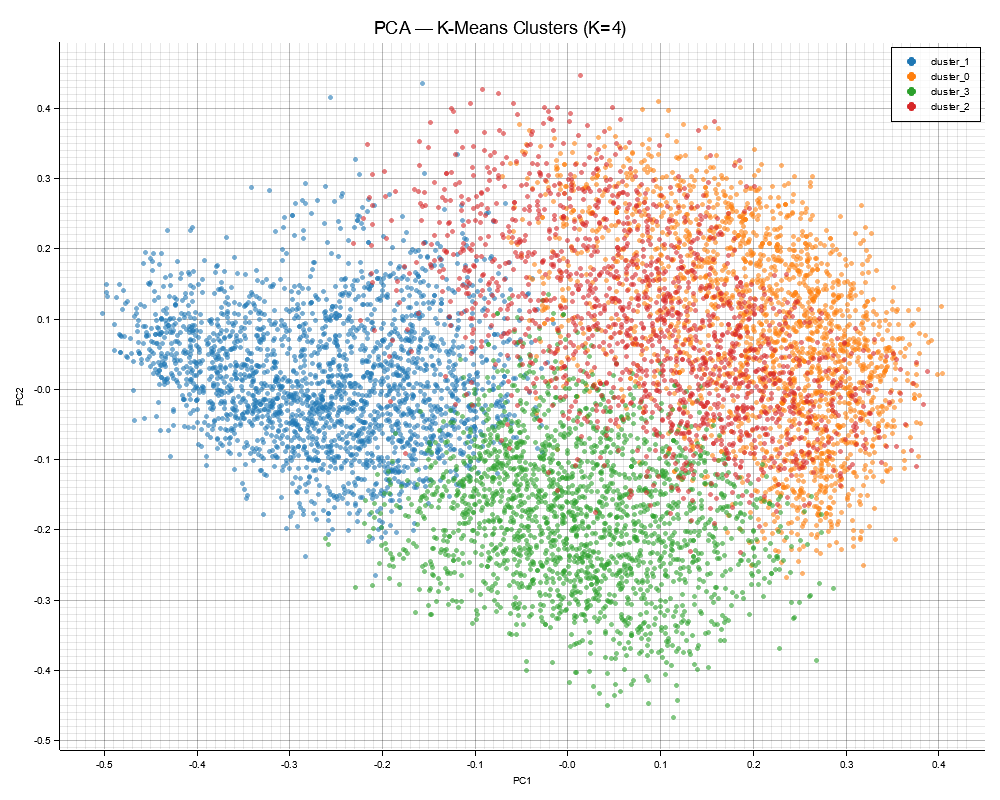
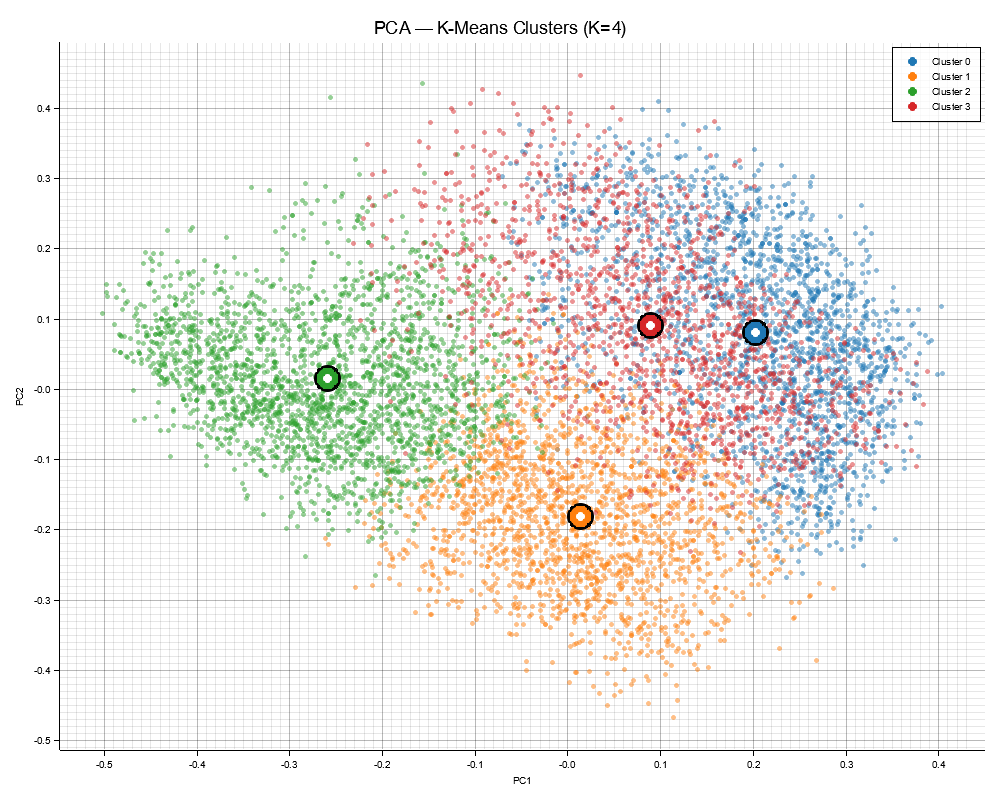
projeto-1: fix seed for reproducibility, add centroid markers
- Fixed RNG seed (42) across K-Means, silhouette, and sampling
- Centroid markers (black circles) on PCA cluster plot
- Regenerated all plots with deterministic K=4 (silhouette=0.0591)
- Updated slide table to match new cluster ordering

diff --git a/projeto-1/output/presentation.html b/projeto-1/output/presentation.html
@@ -230,10 +230,10 @@
   </div>
   <table>
     <tr><th>Cluster</th><th>N</th><th>%</th><th>Descricao</th><th>Top Folders</th><th>Orientacao</th><th>Tam. Med.</th></tr>
-    <tr><td>0</td><td>2125</td><td>26.6</td><td><strong>Arte digital</strong></td><td>wallpapers 35%, ai_images 32%</td><td>43% sq, 46% land</td><td>413 KB</td></tr>
-    <tr><td>1</td><td>2301</td><td>28.8</td><td><strong>Retratos/pessoas</strong></td><td>people 50%, iPhone 33%</td><td>75% portrait</td><td>5.9 MB</td></tr>
-    <tr><td>2</td><td>1602</td><td>20.0</td><td><strong>Screenshots</strong></td><td>iPhone 57%, backup 28%</td><td>55% port, 36% land</td><td>241 KB</td></tr>
-    <tr><td>3</td><td>1972</td><td>24.6</td><td><strong>Cenas/ambientes</strong></td><td>iPhone 81%, people 8%</td><td>70% portrait</td><td>8.5 MB</td></tr>
+    <tr><td>0</td><td>2125</td><td>26.6</td><td><strong>Arte digital</strong></td><td>wallpapers 35%, ai_images 32%</td><td>46% land, 43% sq</td><td>413 KB</td></tr>
+    <tr><td>1</td><td>1972</td><td>24.6</td><td><strong>Cenas/ambientes</strong></td><td>iPhone 81%, people 8%</td><td>70% portrait</td><td>8.5 MB</td></tr>
+    <tr><td>2</td><td>2301</td><td>28.8</td><td><strong>Retratos/pessoas</strong></td><td>people 50%, iPhone 33%</td><td>75% portrait</td><td>5.9 MB</td></tr>
+    <tr><td>3</td><td>1602</td><td>20.0</td><td><strong>Screenshots</strong></td><td>iPhone 57%, backup 28%</td><td>55% port, 36% land</td><td>241 KB</td></tr>
   </table>
   <p style="text-align:center; font-size:0.65em; margin-top:0.4em;">
     <span class="hl">Insight:</span> CLIP agrupou por <span class="hl">semantica visual</span>, nao por metadados.

diff --git a/projeto-1/src/main.rs b/projeto-1/src/main.rs
@@ -3,6 +3,8 @@ use fastembed::{ImageEmbedding, ImageEmbeddingModel, ImageInitOptions};
 use indicatif::{ProgressBar, ProgressStyle};
 use plotters::prelude::*;
 use rand::seq::SliceRandom;
+use rand::SeedableRng;
+use rand::rngs::StdRng;
 use std::collections::HashMap;
 use std::io::{Read as _, Write as _};
 use std::path::{Path, PathBuf};
@@ -15,6 +17,7 @@ const K_MIN: usize = 2;
 const K_MAX: usize = 15;
 const KMEANS_MAX_ITER: usize = 100;
 const EMB_DIM: usize = 512;
+const SEED: u64 = 42;
 const OUTPUT_DIR: &str = "D:/media/cluster_output";
 
 // ─── Image Discovery ──────────────────────────────────────────────
@@ -188,19 +191,21 @@ fn compute_centroids(data: &[Vec<f32>], labels: &[usize], k: usize) -> Vec<Vec<f
     }).collect()
 }
 
-fn kmeans(data: &[Vec<f32>], k: usize) -> (Vec<usize>, Vec<Vec<f32>>, f64) {
+fn kmeans(data: &[Vec<f32>], k: usize, seed: u64) -> (Vec<usize>, Vec<Vec<f32>>, f64) {
     let n = data.len();
+    let mut rng = StdRng::seed_from_u64(seed);
 
-    // K-Means++ init
+    // K-Means init
     let mut centroids: Vec<Vec<f32>> = Vec::with_capacity(k);
-    centroids.push(data[rand::random_range(0..n)].clone());
+    use rand::Rng;
+    centroids.push(data[rng.random_range(0..n)].clone());
 
     for _ in 1..k {
         let dists: Vec<f32> = data.iter().map(|p| {
             centroids.iter().map(|c| euclidean_dist_sq(p, c)).fold(f32::MAX, f32::min)
         }).collect();
         let total: f32 = dists.iter().sum();
-        let threshold = rand::random_range(0.0..total);
+        let threshold = rng.random_range(0.0..total);
         let mut cumsum = 0.0;
         let mut chosen = 0;
         for (i, &d) in dists.iter().enumerate() {
@@ -232,7 +237,7 @@ fn silhouette_score(data: &[Vec<f32>], labels: &[usize], k: usize) -> f64 {
     let sample_size = n.min(3000);
     let indices: Vec<usize> = if sample_size < n {
         let mut idx: Vec<usize> = (0..n).collect();
-        idx.shuffle(&mut rand::rng());
+        idx.shuffle(&mut StdRng::seed_from_u64(SEED));
         idx.truncate(sample_size);
         idx
     } else {
@@ -273,7 +278,15 @@ fn dot(a: &[f32], b: &[f32]) -> f32 {
     a.iter().zip(b).map(|(x, y)| x * y).sum()
 }
 
-fn compute_pca_2d(data: &[Vec<f32>]) -> (Vec<f32>, Vec<f32>) {
+struct PcaResult {
+    scores1: Vec<f32>,
+    scores2: Vec<f32>,
+    mean: Vec<f64>,
+    pc1: Vec<f32>,
+    pc2: Vec<f32>,
+}
+
+fn compute_pca_2d(data: &[Vec<f32>]) -> PcaResult {
     let n = data.len();
     let dim = data[0].len();
 
@@ -325,7 +338,20 @@ fn compute_pca_2d(data: &[Vec<f32>]) -> (Vec<f32>, Vec<f32>) {
     }
     let scores2 = project(&pc2, &centered);
 
-    (scores1, scores2)
+    PcaResult { scores1, scores2, mean, pc1, pc2 }
+}
+
+/// Project arbitrary points (e.g. centroids) into the same PCA space
+fn project_to_pca(points: &[Vec<f32>], pca: &PcaResult) -> (Vec<f32>, Vec<f32>) {
+    let xs: Vec<f32> = points.iter().map(|p| {
+        let centered: Vec<f32> = p.iter().zip(&pca.mean).map(|(&x, &m)| x - m as f32).collect();
+        dot(&centered, &pca.pc1)
+    }).collect();
+    let ys: Vec<f32> = points.iter().map(|p| {
+        let centered: Vec<f32> = p.iter().zip(&pca.mean).map(|(&x, &m)| x - m as f32).collect();
+        dot(&centered, &pca.pc2)
+    }).collect();
+    (xs, ys)
 }
 
 // ─── Plotting helpers ─────────────────────────────────────────────
@@ -395,6 +421,65 @@ fn plot_scatter_categorical(
         chart.draw_series(other_points.iter().map(|&(x, y)| {
             Circle::new((x, y), 1, ShapeStyle::from(gray.mix(0.4)).filled())
         }))?.label("other").legend(move |(x, y)| Circle::new((x + 10, y), 4, gray.filled()));
+    }
+
+    chart.configure_series_labels()
+        .position(SeriesLabelPosition::UpperRight)
+        .background_style(WHITE.mix(0.8)).border_style(BLACK).draw()?;
+    root.present()?;
+    println!("Plot saved: {}", path);
+    Ok(())
+}
+
+/// Scatter plot by cluster with centroid markers
+fn plot_scatter_with_centroids(
+    filename: &str, title: &str,
+    xs: &[f32], ys: &[f32],
+    categories: &[String],
+    cx: &[f32], cy: &[f32],
+    k: usize,
+) -> Result<()> {
+    let path = format!("{}/{}", OUTPUT_DIR, filename);
+    let root = BitMapBackend::new(&path, (1000, 800)).into_drawing_area();
+    root.fill(&WHITE)?;
+    let (x0, x1, y0, y1) = chart_bounds(xs, ys);
+
+    let mut chart = ChartBuilder::on(&root)
+        .caption(title, ("sans-serif", 22))
+        .margin(15).x_label_area_size(35).y_label_area_size(45)
+        .build_cartesian_2d(x0..x1, y0..y1)?;
+    chart.configure_mesh().x_desc("PC1").y_desc("PC2").draw()?;
+
+    // Draw points per cluster
+    for ci in 0..k {
+        let cat = format!("cluster_{}", ci);
+        let color = PALETTE[ci % PALETTE.len()];
+        let points: Vec<(f64, f64)> = (0..xs.len())
+            .filter(|&i| categories[i] == cat)
+            .map(|i| (xs[i] as f64, ys[i] as f64))
+            .collect();
+        chart.draw_series(points.iter().map(|&(x, y)| {
+            Circle::new((x, y), 2, ShapeStyle::from(color.mix(0.5)).filled())
+        }))?.label(format!("Cluster {}", ci))
+            .legend(move |(x, y)| Circle::new((x + 10, y), 4, color.filled()));
+    }
+
+    // Draw centroids as large stars with black border
+    for ci in 0..k {
+        let color = PALETTE[ci % PALETTE.len()];
+        chart.draw_series(std::iter::once(
+            Circle::new((cx[ci] as f64, cy[ci] as f64), 12,
+                ShapeStyle::from(color).filled())
+        ))?;
+        chart.draw_series(std::iter::once(
+            Circle::new((cx[ci] as f64, cy[ci] as f64), 12,
+                ShapeStyle::from(BLACK).stroke_width(3))
+        ))?;
+        // Inner white dot for visibility
+        chart.draw_series(std::iter::once(
+            Circle::new((cx[ci] as f64, cy[ci] as f64), 4,
+                ShapeStyle::from(WHITE).filled())
+        ))?;
     }
 
     chart.configure_series_labels()
@@ -555,7 +640,7 @@ fn analyze_clusters(paths: &[PathBuf], labels: &[usize], k: usize, metas: &[Imag
         report.push_str(&format!("  Unique top-folders: {}\n", folders.len()));
         report.push_str("  Sample files:\n");
         let mut sample_idx: Vec<usize> = members.clone();
-        sample_idx.shuffle(&mut rand::rng());
+        sample_idx.shuffle(&mut StdRng::seed_from_u64(SEED + cluster as u64));
         for &i in sample_idx.iter().take(5) {
             let name = paths[i].file_name().map(|f| f.to_string_lossy().to_string()).unwrap_or_default();
             report.push_str(&format!("    - {}\n", name));
@@ -584,7 +669,7 @@ fn main() -> Result<()> {
         println!("Found {} images total", all_paths.len());
 
         // Shuffle all paths; we'll draw from this pool until we have SAMPLE_SIZE valid embeddings
-        all_paths.shuffle(&mut rand::rng());
+        all_paths.shuffle(&mut StdRng::seed_from_u64(SEED));
 
         println!("Loading CLIP ViT-B/32 model...");
         let mut model = ImageEmbedding::try_new(
@@ -651,7 +736,9 @@ fn main() -> Result<()> {
 
     // 4. PCA 2D (computed once, reused for all plots)
     println!("Computing PCA...");
-    let (pc1, pc2) = compute_pca_2d(&embeddings);
+    let pca = compute_pca_2d(&embeddings);
+    let pc1 = &pca.scores1;
+    let pc2 = &pca.scores2;
 
     // 5. Elbow + Silhouette
     let mut k_values = Vec::new();
@@ -662,8 +749,8 @@ fn main() -> Result<()> {
     for k in K_MIN..=K_MAX {
         let mut best_inertia = f64::MAX;
         let mut best_labels = vec![];
-        for _ in 0..3 {
-            let (labels, _, inertia) = kmeans(&embeddings, k);
+        for run in 0..3u64 {
+            let (labels, _, inertia) = kmeans(&embeddings, k, SEED + run + k as u64 * 100);
             if inertia < best_inertia {
                 best_inertia = inertia;
                 best_labels = labels;
@@ -692,18 +779,26 @@ fn main() -> Result<()> {
     println!("Final K-Means K={}...", best_k);
     let mut best_inertia = f64::MAX;
     let mut final_labels = vec![];
-    for _ in 0..5 {
-        let (labels, _, inertia) = kmeans(&embeddings, best_k);
-        if inertia < best_inertia { best_inertia = inertia; final_labels = labels; }
+    let mut final_centroids = vec![];
+    for run in 0..5u64 {
+        let (labels, centroids, inertia) = kmeans(&embeddings, best_k, SEED + run + 1000);
+        if inertia < best_inertia {
+            best_inertia = inertia;
+            final_labels = labels;
+            final_centroids = centroids;
+        }
     }
 
     // === ALL SCATTER PLOTS ===
 
-    // a) By cluster
+    // Project centroids to PCA space
+    let (cx, cy) = project_to_pca(&final_centroids, &pca);
+
+    // a) By cluster (with centroids)
     let cluster_cats: Vec<String> = final_labels.iter().map(|l| format!("cluster_{}", l)).collect();
-    plot_scatter_categorical("pca_by_cluster.png",
+    plot_scatter_with_centroids("pca_by_cluster.png",
         &format!("PCA — K-Means Clusters (K={})", best_k),
-        &pc1, &pc2, &cluster_cats)?;
+        pc1, pc2, &cluster_cats, &cx, &cy, best_k)?;
 
     // b) By top folder (source)
     let folder_cats: Vec<String> = metas.iter().map(|m| m.top_folder.clone()).collect();
